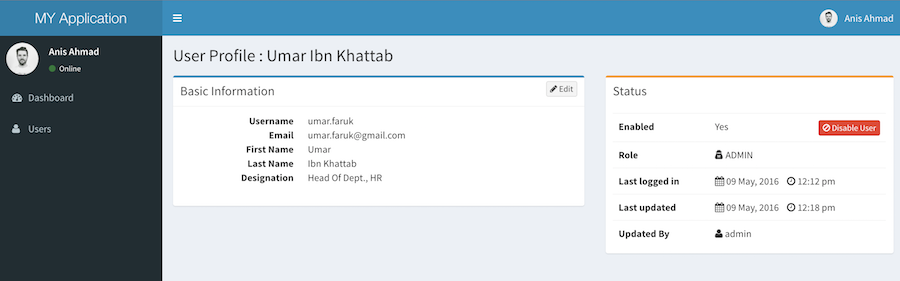
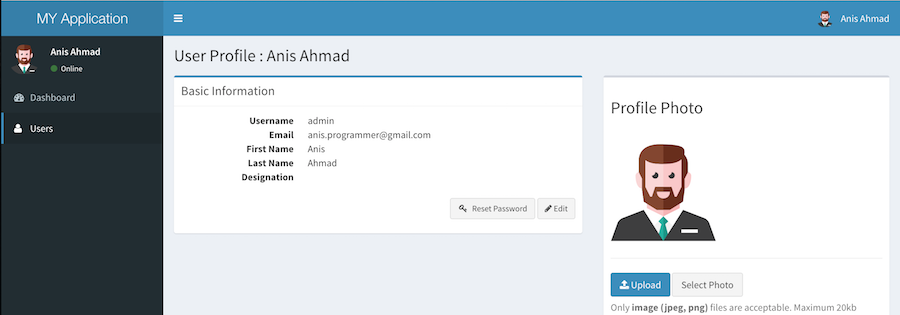
Updated screenshot and readme.md

diff --git a/README.md b/README.md
@@ -7,7 +7,7 @@ The following things are provided pre-configured -
 
 * Layout using beautiful, responsive **[Admin LTE 2](https://almsaeedstudio.com/themes/AdminLTE/index.html)** Template 
 * Sample working pages (Login, Dashboard and User CRUD) for using Admin LTE 2 design  
-* Working User Entity and Login, Logout etc. using **[FOSUserBundle](https://github.com/FriendsOfSymfony/FOSUserBundle)**
+* Working User Entity and Login, Logout, Password reset, Profile picture etc. using **[FOSUserBundle](https://github.com/FriendsOfSymfony/FOSUserBundle)**
 * Configured **[SyliusResourceBundle](https://github.com/Sylius/SyliusResourceBundle)**
 * Flexible, configurable menu using **[KNPMenuBundle](https://github.com/KnpLabs/KnpMenuBundle)**
 * Installation of assets with **[Bower](http://bower.io/)**
@@ -17,7 +17,7 @@ Screenshots
 
 ![Dashboard Page](screens/dashboard.png)
 
-![User List](screens/user_list.png)
+![User List](screens/user_list.jpg)
 
 ![Profile Page](screens/profile.png)
 
@@ -64,6 +64,9 @@ Installation
     composer install --prefer-dist
     bower install
     ```
+    If you require any other common js tool (e,g, `moment.js`, `bootstrap-datepicker` etc.)
+     don't forget to check `web/assets/AdminLTE/plugins/` directory first. 
+     Good number of common tools/plugins are already available there. 
 
 6. Prepare the database:
 
